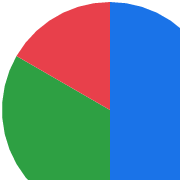
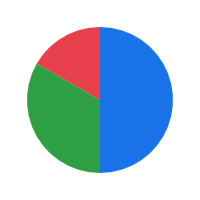
feat(widgets): centered/full_width demo helpers + build-fn doc examples
Add `centered(cx, child)` and `full_width(cx, child)` — window-sized frames
that center a widget (a bare widget root is content-sized and pins top-left, so
every doc-shot rendered its widget in the corner). Establish the doc-example
shape the rest of the rollout will follow: a visible `fn build(cx) -> Element`
plus its imports; the `App::new(build)` + `doc_shot` harness hidden.

Fixes the three worst renders as exemplars:
- button: now centered.
- color_picker: was a lone swatch (rendered closed); now shown with the palette
  OPEN via doc_shot_open("brand.open") + centered — the widget was never broken.
- pie_chart: circle was clipped edge-to-edge; leaf now sized 150px and centered
  in a 200x200 frame so the whole circle shows with margin.

diff --git a/crates/lumen-widgets/src/lib.rs b/crates/lumen-widgets/src/lib.rs
@@ -157,6 +157,42 @@ fn verify_or_write_shot(shot: RgbaImage, name: &str) {
     );
 }
 
+/// Present `child` centered on both axes inside a box the size of the current
+/// window ([`BuildCx::size`](element::BuildCx::size)). A bare widget root is
+/// content-sized and pins to the top-left, so this is the wrapper that makes a
+/// single widget sit centered — used by the widget doc examples, and handy as a
+/// root for any "one widget on a screen" view.
+pub fn centered(cx: &BuildCx, child: Element) -> Element {
+    showcase_frame(cx, child, lumen_layout::Align::Center)
+}
+
+/// Like [`centered`], but `child` spans the full window width (still centered
+/// vertically) — for bars, sliders, rows, tab strips, and list-like widgets
+/// that should stretch to the frame rather than sit at their natural width.
+pub fn full_width(cx: &BuildCx, child: Element) -> Element {
+    showcase_frame(cx, child, lumen_layout::Align::Stretch)
+}
+
+fn showcase_frame(cx: &BuildCx, child: Element, cross: lumen_layout::Align) -> Element {
+    use lumen_layout::{Dim, Display, FlexDirection, LayoutStyle};
+    let win = cx.size();
+    Element {
+        role: lumen_core::semantics::Role::Generic,
+        elide_semantics: true,
+        style: LayoutStyle {
+            display: Display::Flex,
+            flex_direction: FlexDirection::Column,
+            align_items: Some(cross),
+            justify_content: Some(lumen_layout::Align::Center),
+            width: Dim::px(win.width as f32),
+            height: Dim::px(win.height as f32),
+            ..LayoutStyle::default()
+        },
+        children: vec![child],
+        ..Element::default()
+    }
+}
+
 /// An explicit renderer choice from the command line (`--wgpu` / `--tiny-skia`)
 /// or the `LUMEN_RENDERER=wgpu|tiny-skia` environment variable, ready to install
 /// with [`App::with_renderer`]. Returns `None` when nothing is specified, so the

diff --git a/crates/lumen-widgets/src/charts.rs b/crates/lumen-widgets/src/charts.rs
@@ -191,18 +191,25 @@ pub struct PieSlice {
 /// # Example
 ///
 /// ```
-/// use lumen_widgets::PieSlice;
-/// use lumen_widgets::{App, PieChart};
+/// # use lumen_widgets::App;
+/// use lumen_widgets::{centered, PieChart, PieSlice, BuildCx, Element};
 /// use lumen_core::Color;
+/// use lumen_layout::Dim;
 ///
-/// let app = App::new(|_| {
-///     PieChart::element(vec![
+/// fn build(cx: &mut BuildCx) -> Element {
+///     let mut chart = PieChart::element(vec![
 ///         PieSlice { label: "A".into(), value: 3.0, color: Color::srgb8(0x1a,0x73,0xe8,0xff) },
 ///         PieSlice { label: "B".into(), value: 2.0, color: Color::srgb8(0x2e,0xa0,0x43,0xff) },
 ///         PieSlice { label: "C".into(), value: 1.0, color: Color::srgb8(0xe8,0x40,0x4b,0xff) },
-///     ])
-/// });
-/// # lumen_widgets::doc_shot(app, 180.0, 180.0, "pie_chart");
+///     ]);
+///     // The chart leaf fills its box, so give it an explicit square and center
+///     // it — a larger frame keeps the whole circle visible with a margin.
+///     chart.style.width = Dim::px(150.0);
+///     chart.style.height = Dim::px(150.0);
+///     centered(cx, chart)
+/// }
+/// # let app = App::new(build);
+/// # lumen_widgets::doc_shot(app, 200.0, 200.0, "pie_chart");
 /// ```
 ///
 /// Renders:

diff --git a/crates/lumen-widgets/src/color_picker.rs b/crates/lumen-widgets/src/color_picker.rs
@@ -19,10 +19,15 @@ const PRESETS: [&str; 12] = [
 /// # Example
 ///
 /// ```
-/// use lumen_widgets::{App, ColorPicker};
+/// # use lumen_widgets::App;
+/// use lumen_widgets::{centered, ColorPicker, BuildCx, Element};
 ///
-/// let app = App::new(|cx| ColorPicker::new(cx, "color").into());
-/// # lumen_widgets::doc_shot(app, 200.0, 80.0, "color_picker");
+/// fn build(cx: &mut BuildCx) -> Element {
+///     // Rendered with the palette open (see the `.open` signal below).
+///     centered(cx, ColorPicker::new(cx, "brand").into())
+/// }
+/// # let app = App::new(build);
+/// # lumen_widgets::doc_shot_open(app, 240.0, 240.0, "color_picker", "brand.open");
 /// ```
 ///
 /// Renders:

diff --git a/crates/lumen-widgets/src/button.rs b/crates/lumen-widgets/src/button.rs
@@ -16,10 +16,14 @@ use lumen_text::TextStyle;
 /// # Example
 ///
 /// ```
-/// use lumen_widgets::{App, Button};
+/// # use lumen_widgets::App;
+/// use lumen_widgets::{centered, Button, BuildCx, Element};
 ///
-/// let app = App::new(|_| Button::new("Save").on_press(|_| {}).into());
-/// # lumen_widgets::doc_shot(app, 160.0, 60.0, "button");
+/// fn build(cx: &mut BuildCx) -> Element {
+///     centered(cx, Button::new("Save").on_press(|_| {}).into())
+/// }
+/// # let app = App::new(build);
+/// # lumen_widgets::doc_shot(app, 160.0, 72.0, "button");
 /// ```
 ///
 /// Renders: